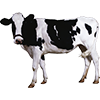
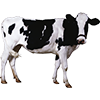
Week4 af

diff --git a/week4/Framework/SDLFramework/SDLFramework/SteeringBehaviors.cpp b/week4/Framework/SDLFramework/SDLFramework/SteeringBehaviors.cpp
@@ -104,7 +104,7 @@ Vector2D SteeringBehaviors::seperation()
 {
 	const double range = 150;
 	Vector2D steeringForce;
-	for (auto& value : m_vehicle->getNeighbrous(range))
+	for (auto& value : m_vehicle->getNeighbours(range))
 	{
 		Vector2D toAgent = m_vehicle->getPosition() - value->getPosition();
 		steeringForce += toAgent.normalized() / toAgent.getLength();
@@ -114,21 +114,61 @@ Vector2D SteeringBehaviors::seperation()
 
 Vector2D SteeringBehaviors::allignment()
 {
-	const int range = 100;
-	Vector2D averageHeading;
-	for (auto& value : m_vehicle->getNeighbrous(range))
+	const int range = 150;
+	Vector2D averageHeading = Vector2D(0,0);
+	bool set = false;
+	for (auto& value : m_vehicle->getNeighbours(range))
 	{
-		averageHeading += value->getHeading();
-	}
-	averageHeading += m_vehicle->getHeading();
+		if(!set)
+		{
+			averageHeading = value->getHeading();
+			set = true;
+		}
+		else
+		{
 
-	int amountNeighbours = m_vehicle->getNeighbrous(range).size();
-	if (amountNeighbours > 0)
-	{
-		averageHeading = averageHeading / amountNeighbours;
-		averageHeading = averageHeading - m_vehicle->getHeading();
+			averageHeading += value->getHeading();
+		}
 	}
+	if (!set)
+	{
+		return Vector2D(0, 0);
+	}
+
+	int amountNeighbours = m_vehicle->getNeighbours(range).size();
+	averageHeading = averageHeading / (double)amountNeighbours;	
 	return averageHeading;
+}
+
+Vector2D SteeringBehaviors::Cohesion()
+{
+	const int range = 150;
+	Vector2D centerOfMass = Vector2D(0, 0);
+
+
+	bool set = false;
+	for (auto& value : m_vehicle->getNeighbours(range))
+	{
+		if (!set)
+		{
+			centerOfMass = value->getHeading();
+			set = true;
+		}
+		else
+		{
+
+			centerOfMass += value->getHeading();
+		}
+	}
+	if (!set)
+	{
+		return Vector2D(0, 0);
+	}
+
+	int amountNeighbours = m_vehicle->getNeighbours(range).size();
+	centerOfMass = centerOfMass / (double)amountNeighbours;
+	return seek(centerOfMass);
+
 }
 
 

diff --git a/week4/Framework/SDLFramework/SDLFramework/GameWorld.cpp b/week4/Framework/SDLFramework/SDLFramework/GameWorld.cpp
@@ -12,17 +12,24 @@ GameWorld::GameWorld()
 void GameWorld::addObject()
 {
 	//Vehicle(double x, double y, int width, int height, double mass, double maxSpeed, double maxForce, double maxTurnRate, GameWorld* world);
-	hare = std::make_shared < Hare>(500, 350, 40, 40, 1, 50, 30, 150, this);
-	cow = std::make_shared < Cow>(10, 10, 30, 30, 1, 40, 30, 150, this);
+	hare = std::make_shared < Hare>(500, 350, 40, 40, 1, 130, 130, 150, this);
+	gameObjects.push_back(hare);
+
+	for (int i = 0; i < 20; i++)
+	{
+		std::shared_ptr<Cow> cow = std::make_shared < Cow>(i*30, 10, 30, 30, 1, 40, 30, 150, this);
+		gameObjects.push_back(cow);
+		cows.push_back(cow);
+	}
+	
 	std::shared_ptr<Cow> cow2 = std::make_shared < Cow>(990, 10, 30, 30, 1, 40, 30, 150, this);
 	std::shared_ptr<Cow> cow3 = std::make_shared < Cow>(10, 690, 30, 30, 1, 40, 30, 150, this);
 	std::shared_ptr<Cow> cow4 = std::make_shared < Cow>(990, 690, 30, 30, 1, 40, 30, 150, this);
-	gameObjects.push_back(hare);
-	gameObjects.push_back(cow);
+	
 	gameObjects.push_back(cow2);
 	gameObjects.push_back(cow3);
 	gameObjects.push_back(cow4);
-	cows.push_back(cow);
+	
 	cows.push_back(cow2);
 	cows.push_back(cow3);
 	cows.push_back(cow4);
@@ -52,10 +59,6 @@ void GameWorld::draw()
 	}
 }
 
-std::shared_ptr<MovingEntity> GameWorld::getCow()
-{
-	return cow;
-}
 
 std::shared_ptr<MovingEntity> GameWorld::getHare()
 {

diff --git a/week4/Framework/SDLFramework/SDLFramework/MovingEntity.cpp b/week4/Framework/SDLFramework/SDLFramework/MovingEntity.cpp
@@ -1,6 +1,6 @@
 #include "MovingEntity.h"
 
-
+# define M_PI           3.14159265358979323846  /* pi */
 
 
 MovingEntity::MovingEntity(double x, double y, int width, int height, double mass, double maxSpeed, double maxForce,double maxTurnRate)
@@ -34,7 +34,19 @@ void MovingEntity::setVelocity(Vector2D newValue)
 
 void MovingEntity::calculateHeading()
 {
+	
 	m_heading = m_velocity.normalized();
+	if (m_velocity.getX() == 0 && m_velocity.getY() == 0)
+	{
+		m_heading = Vector2D(0, 0);
+	}
+}
+
+double MovingEntity::getAngle()
+{
+	double angleRadians = std::atan2(getHeading().getY(), getHeading().getX());
+	double angleDegrees = (angleRadians / M_PI) * 180;
+	return angleDegrees;
 }
 
 
@@ -46,6 +58,30 @@ Vector2D MovingEntity::m_side()
 double MovingEntity::getMass()
 {
 	return m_mass;
+}
+
+void MovingEntity::draw()
+{
+	if (m_texture)
+	{
+		int x = m_position.getX();
+		int y = m_position.getY();
+		FWApplication::GetInstance()->DrawTexture(m_texture, x, y, m_width, m_height,getAngle(),getDirection());
+	}
+}
+
+int MovingEntity::getDirection()
+{
+	if (m_heading.getX() > 0)
+	{
+		return 1;
+	}
+	if (m_heading.getX() < 0)
+	{
+		return -1;
+	}
+
+	return 0;
 }
 
 

diff --git a/week4/Framework/SDLFramework/SDLFramework/HareStates.cpp b/week4/Framework/SDLFramework/SDLFramework/HareStates.cpp
@@ -13,7 +13,7 @@ void WanderState::enter(Hare* hare)
 
 void WanderState::execute(Hare* hare, double deltaTime)
 {
-	const int panicDistance = 100;
+	const int panicDistance = 50;
 
 
 	std::vector<std::shared_ptr<MovingEntity>>cows = hare->getWorld()->getCows();
@@ -27,6 +27,7 @@ void WanderState::execute(Hare* hare, double deltaTime)
 			return;
 		}
 	}
+	
 	
 	
 	Vector2D influence = Vector2D(10,5);
@@ -50,6 +51,7 @@ void FleeState::enter(Hare* hare)
 void FleeState::execute(Hare* hare, double deltaTime)
 {
 	int distance;
+	const int safeDistance = 100;
 	bool safe = true;
 
 	Vector2D influence = Vector2D(0, 0);
@@ -59,7 +61,7 @@ void FleeState::execute(Hare* hare, double deltaTime)
 	for (const auto &value : cows)
 	{
 		distance = hare->getPosition().distanceTo(value->getPosition());
-		if (distance < 200)
+		if (distance < safeDistance)
 		{
 			if (!vectorSet)
 			{

diff --git a/week4/Framework/SDLFramework/SDLFramework/FWApplication.cpp b/week4/Framework/SDLFramework/SDLFramework/FWApplication.cpp
@@ -140,6 +140,21 @@ void FWApplication::DrawTexture(SDL_Texture * texture, int xOffset, int yOffset,
 	SDL_RenderCopy(mRenderer, texture, NULL, &rect);
 }
 
+void FWApplication::DrawTexture(SDL_Texture * texture, int xOffset, int yOffset, int width, int height, double angle,int direction)
+{
+	SDL_Rect rect = { xOffset - (width / 2), yOffset - (height / 2), width, height };
+
+	//SDL_QueryTexture(texture, NULL, NULL, &rect.w, &rect.h);
+	SDL_RendererFlip flip = SDL_FLIP_NONE;
+	SDL_SetTextureBlendMode(texture, SDL_BLENDMODE_BLEND);
+	if (direction < 1)
+	{
+		flip = SDL_FLIP_VERTICAL;
+	}
+	SDL_RenderCopyEx(mRenderer, texture, NULL, &rect, angle,NULL, flip);
+}
+
+
 void FWApplication::StartTick()
 {
 	SDL_RenderClear(mRenderer);

diff --git a/week4/Framework/SDLFramework/SDLFramework/GameWorld.h b/week4/Framework/SDLFramework/SDLFramework/GameWorld.h
@@ -12,7 +12,6 @@ class GameWorld
 	//http://stackoverflow.com/questions/5270540/calling-derived-class-functions-from-within-a-vector-c
 	std::vector<std::shared_ptr<MovingEntity>>gameObjects;
 	std::vector<std::shared_ptr<MovingEntity>>cows;
-	std::shared_ptr<MovingEntity>cow;
 	std::shared_ptr<MovingEntity>hare;
 public:
 	GameWorld();
@@ -20,7 +19,6 @@ public:
 	void update(double deltaTime, int command);
 	void update(double deltaTime);
 	void draw();
-	std::shared_ptr<MovingEntity> getCow();
 	std::shared_ptr<MovingEntity> getHare();
 	std::vector<std::shared_ptr<MovingEntity>>getCows();
 };

diff --git a/week4/Framework/SDLFramework/SDLFramework/CowStates.cpp b/week4/Framework/SDLFramework/SDLFramework/CowStates.cpp
@@ -29,9 +29,13 @@ void PursuitState::execute(Cow* cow, double deltaTime)
 	Vector2D influence = cow->getSteeringBehaviour()->pursuit(cow->getWorld()->getHare().get());
 	Vector2D seperation = cow->getSteeringBehaviour()->seperation() * 1000;
 	influence += seperation;
-	/*	Vector2D alignment = cow->getSteeringBehaviour()->allignment() * 0.001;
+	
+	Vector2D alignment = cow->getSteeringBehaviour()->allignment();
 	influence += alignment;
-	*/
+
+	Vector2D cohesion = cow->getSteeringBehaviour()->Cohesion() * 0.6;
+	influence += cohesion;
+	
 
 	cow->move(influence, deltaTime);
 }

diff --git a/week4/Framework/SDLFramework/SDLFramework/BaseGameEntity.cpp b/week4/Framework/SDLFramework/SDLFramework/BaseGameEntity.cpp
@@ -1,4 +1,10 @@
 #include "BaseGameEntity.h"
+#include <SDL.h>
+#include <SDL_video.h>
+#include <SDL_render.h>
+#include <SDL_events.h>
+#include <SDL_ttf.h>
+#include <SDL_image.h>
 
 int BaseGameEntity::m_iNextValidId = 1;
 
@@ -43,7 +49,7 @@ void BaseGameEntity::draw()
 	{
 		int x = m_position.getX();
 		int y = m_position.getY();
-		FWApplication::GetInstance()->DrawTexture(m_texture,x + m_width/2 ,y+ m_height / 2, m_width, m_height);
+		FWApplication::GetInstance()->DrawTexture(m_texture,x ,y, m_width, m_height);
 	}
 }
 

diff --git a/week4/Framework/SDLFramework/SDLFramework/Vehicle.cpp b/week4/Framework/SDLFramework/SDLFramework/Vehicle.cpp
@@ -71,10 +71,10 @@ void Vehicle::move(Vector2D influence, double deltaTime)
 	}
 }
 
-std::vector<std::shared_ptr<MovingEntity>> Vehicle::getNeighbrous(double range)
+std::vector<std::shared_ptr<MovingEntity>> Vehicle::getNeighbours(double range)
 {
 
-	std::vector<std::shared_ptr<MovingEntity>> neighbours;
+	std::vector<std::shared_ptr<MovingEntity>> neighbours = std::vector<std::shared_ptr<MovingEntity>>();
 	for (const auto& value : m_world->getCows())
 	{
 		if (value->getID() != this->getID())

diff --git a/week4/Framework/SDLFramework/SDLFramework/FWApplication.h b/week4/Framework/SDLFramework/SDLFramework/FWApplication.h
@@ -119,6 +119,9 @@ public:
 	/// <param name="height"> 	The height. </param>
 	////////////////////////////////////////////////////////////////////////////////////////////////////
 	void DrawTexture(SDL_Texture * texture, int xOffset, int yOffset, int width, int height);
+
+	//Custom: Draw a texture rotated
+	void DrawTexture(SDL_Texture * texture, int xOffset, int yOffset, int width, int height, double angle,int direction);
 	
 
 

diff --git a/week4/Framework/SDLFramework/SDLFramework/MovingEntity.h b/week4/Framework/SDLFramework/SDLFramework/MovingEntity.h
@@ -21,9 +21,11 @@ public:
 	Vector2D getHeading();
 	void setVelocity(Vector2D);
 	void calculateHeading();
+	double getAngle();
 	//Tegenovergestelde vector van de richtings vector (velocity)
 	Vector2D m_side();
 	double getMass();
-	
+	 void draw() override;
+	 int getDirection();
 };
 

diff --git a/week4/Framework/SDLFramework/SDLFramework/Vehicle.h b/week4/Framework/SDLFramework/SDLFramework/Vehicle.h
@@ -20,7 +20,7 @@ public:
 
 	std::shared_ptr<SteeringBehaviors> getSteeringBehaviour();
 	void move(Vector2D, double);
-	std::vector<std::shared_ptr<MovingEntity>> getNeighbrous(double);
+	std::vector<std::shared_ptr<MovingEntity>> getNeighbours(double);
 	GameWorld* getWorld();
 };
 
